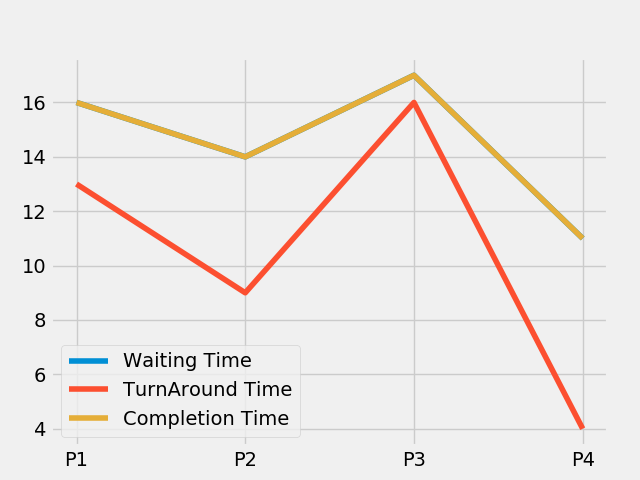
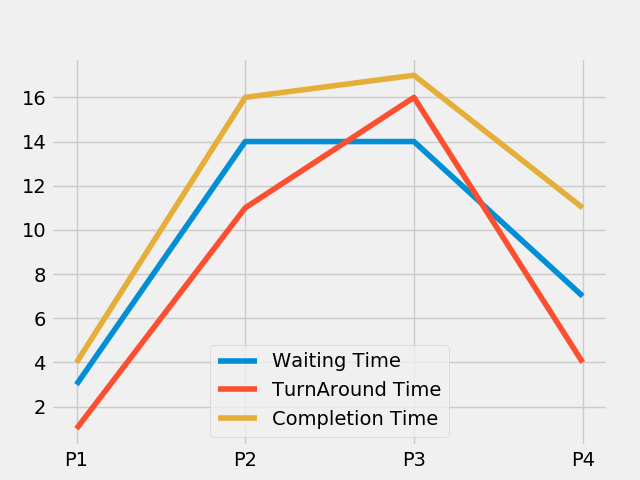
final from kasis bro

diff --git a/src/PRIORITY_P.py b/src/PRIORITY_P.py
@@ -3,28 +3,28 @@ import matplotlib.pyplot as plt
 plt.style.use('fivethirtyeight')
 
 
-processes = []  
-tat = []
-twt = []
-
-def schedulingProcess(process_data):
+def schedulingProcess( process_data):
     start_time = []
     exit_time = []
     s_time = 0
     sequence_of_process = []
     process_data.sort(key=lambda x: x[1])
-        
+    '''
+    Sort processes according to the Arrival Time
+    '''
     while 1:
         ready_queue = []
         normal_queue = []
         temp = []
         for i in range(len(process_data)):
-            if int(process_data[i][1]) <= s_time and process_data[i][4] == 0:
-                temp.extend([process_data[i][0], process_data[i][1], process_data[i][2], process_data[i][3], process_data[i][5]])
+            if process_data[i][1] <= s_time and process_data[i][4] == 0:
+                temp.extend([process_data[i][0], process_data[i][1], process_data[i][2], process_data[i][3],
+                                process_data[i][5]])
                 ready_queue.append(temp)
                 temp = []
             elif process_data[i][4] == 0:
-                temp.extend([process_data[i][0], process_data[i][1], process_data[i][2], process_data[i][4], process_data[i][5]])
+                temp.extend([process_data[i][0], process_data[i][1], process_data[i][2], process_data[i][4],
+                                process_data[i][5]])
                 normal_queue.append(temp)
                 temp = []
         if len(ready_queue) == 0 and len(normal_queue) == 0:
@@ -59,94 +59,79 @@ def schedulingProcess(process_data):
             if process_data[k][2] == 0:        #if burst time is zero, it means process is completed
                 process_data[k][4] = 1
                 process_data[k].append(e_time)
-    t_time, tat = calculateTurnaroundTime(process_data)
-    w_time, twt = calculateWaitingTime(process_data)
-    print(tat)
-    for i in range(len(process_data)):
-        process_data[i][7] = tat[i]
-        process_data[i][6] = process_data[i][1]+process_data[i][7]
+    calculateTurnaroundTime( process_data)
+    calculateWaitingTime( process_data)
+    twt = [p[8] for p in process_data]
+    tat = [p[7] for p in process_data]
+    ctime = [p[6] for p in process_data]
+    return twt,tat,ctime,sequence_of_process
 
-    return twt , tat , w_time ,t_time
-
-
-def calculateTurnaroundTime(process_data):
+def calculateTurnaroundTime( process_data):
     total_turnaround_time = 0
-    
     for i in range(len(process_data)):
         turnaround_time = process_data[i][6] - process_data[i][5]
-            
+
         total_turnaround_time = total_turnaround_time + turnaround_time
         process_data[i].append(turnaround_time)
 
-        tat.append(total_turnaround_time)
-    
-    average_turnaround_time = total_turnaround_time / len(process_data)
-       
-    return average_turnaround_time, tat
-    
 
-def calculateWaitingTime(process_data):
+
+def calculateWaitingTime( process_data):
     total_waiting_time = 0
     for i in range(len(process_data)):
-        waiting_time = process_data[i][6] - process_data[i][2]
-            
+        waiting_time = process_data[i][6] - process_data[i][1]
+        '''
+        waiting_time = turnaround_time - burst_time
+        '''
         total_waiting_time = total_waiting_time + waiting_time
         process_data[i].append(waiting_time)
-        twt.append(total_waiting_time)
-    average_waiting_time = total_waiting_time / len(process_data)
-       
-    return average_waiting_time, twt
 
 
+def plot_graph(process_data):
+    processes = [p[0] for p in process_data]
+    twt = [p[8] for p in process_data]
+    tat = [p[7] for p in process_data]
+    ctime = [p[6] for p in process_data]
 
-def printData(process_data, average_turnaround_time, average_waiting_time,  tat, twt):
+    plt.plot(processes,twt,label='Waiting Time')
+    plt.plot(processes, tat, label = 'TurnAround Time')
+    plt.plot(processes, ctime, label = 'Completion Time')
+
+    plt.legend(loc='best')
+    plt.savefig('./output/PRIORITY_NP_output.png')
+    plt.show()
+    plt.close(fig='all')
+
+def printData( process_data,sequence_of_process):
     process_data.sort(key=lambda x: x[0])
-        
-    print("Process_ID  Arrival_Time  Rem_Burst_Time   Priority  Completed  Orig_Burst_Time Completion_Time  Turnaround_Time  Waiting_Time")
+    '''
+    Sort processes according to the Process ID
+    '''
+    print("Process_ID  Arrival_Time  Rem_Burst_Time   Priority        Completed  Orig_Burst_Time Completion_Time  Turnaround_Time  Waiting_Time")
     for i in range(len(process_data)):
         for j in range(len(process_data[i])):
-
-            print(process_data[i][j], end="              ")
+            print(process_data[i][j], end='\t\t')
         print()
+    print('\nAverage Turnaround Time:',sum(p[7] for p in process_data)/len(process_data))
+    print('Average Waiting Time:',sum(p[8] for p in process_data)/len(process_data))
+    print("Throughput: ",len(process_data)/max([p[6] for p in process_data]))
+    print(f'Sequence of Process: {sequence_of_process}')
 
-    print(f'Average Turnaround Time: {average_turnaround_time}')
-
-    print(f'Average Waiting Time: {average_waiting_time}')
-
-    print("Throughput  =  ",len(process_data)/max([p[6] for p in process_data]))
-
-
-def plot_graph(processes):
-    process = [p[0] for p in processes]
-    waiting = [p[8] for p in processes]
-    tat = [p[7] for p in processes]
-    compl = [p[6] for p in processes]
-
-    plt.plot(process, waiting, label='Waiting Time')
-    plt.plot(process, tat, label='TurnAround Time')
-    plt.plot(process,compl,label = 'Completion time')
-    plt.legend(loc='best')
-    plt.savefig('./output/PRIORITY_P_output.png')
-    plt.show()
 
 
 def priority_p():
-    processes_data =[]
-     
+    process_data = []
     with open('./inputs/PRIORITY_P.txt', 'r') as f:
         f.readline()
         for line in f.readlines():
             temporary = []
-            process, burst, arrival, prior = (line.split(" "))
-            processes.append(process)
-            temporary.extend([process, int(arrival), int(burst), int(prior), 0, int(burst)])
-            processes_data.append(temporary)
-    
-    twt, tat,w_time,t_time = schedulingProcess(processes_data) 
-    printData(processes_data, t_time, w_time, tat, twt)
-    plot_graph(processes_data)
-    plt.close(fig='all')
+            process , burst , arrival,priority = (line.split(" "))
+            temporary.extend([process, int(arrival), int(burst),int(priority), 0,int(burst)])
+            process_data.append(temporary)
 
+    sequence_of_process =  schedulingProcess( process_data)
+    printData(process_data,sequence_of_process)
+    plot_graph(process_data)
 
 if __name__ == "__main__":
-    priority_p()  
+    priority_p()

diff --git a/src/CompareAll.py b/src/CompareAll.py
@@ -67,7 +67,7 @@ def compare():
         processes_data[i][5] = burst_time[i]
 
 
-    pp_waiting,pp_turn_around,w_time,t_time =PRIORITY_P.schedulingProcess(processes_data) 
+    pp_waiting,pp_turn_around,pp_ctime,seq =PRIORITY_P.schedulingProcess(processes_data) 
 
     processes_data =[]
 
